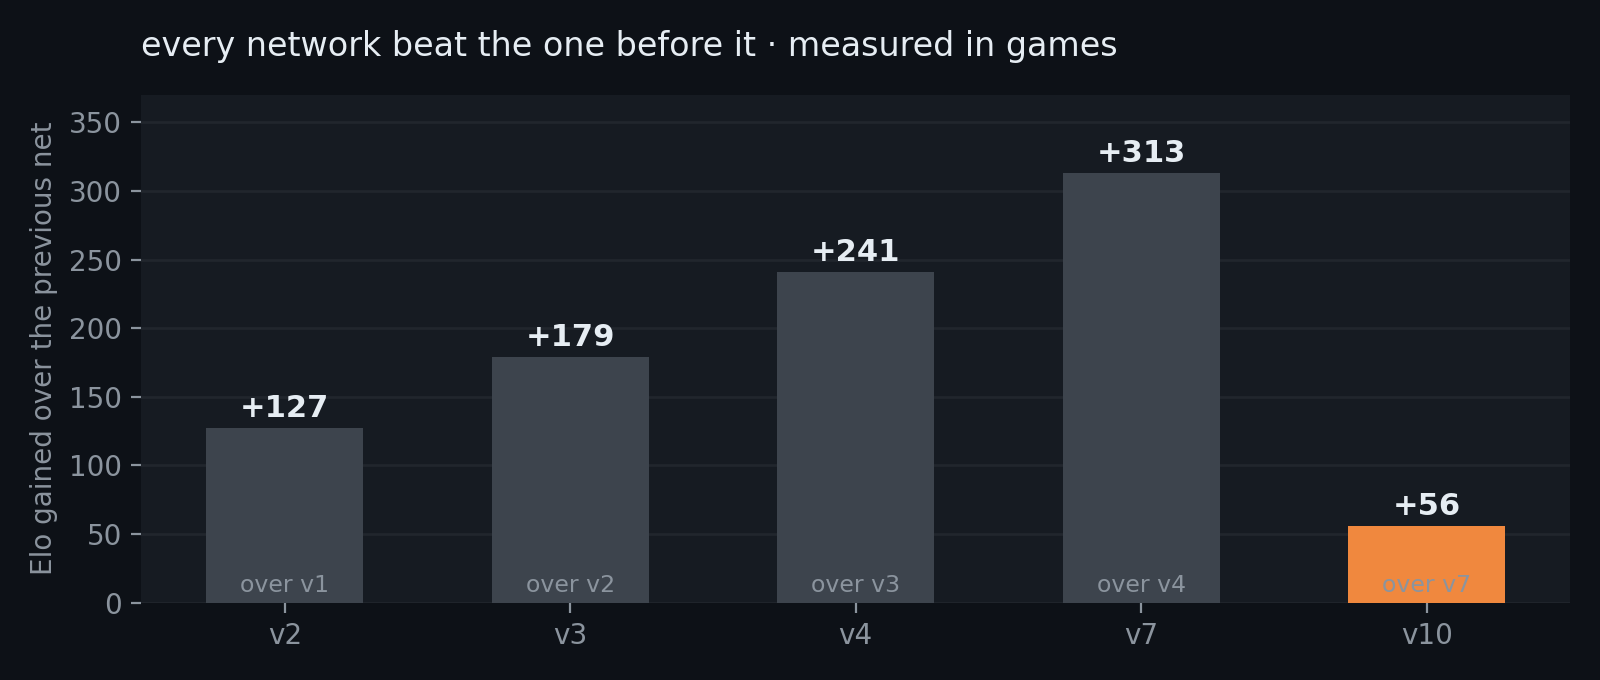
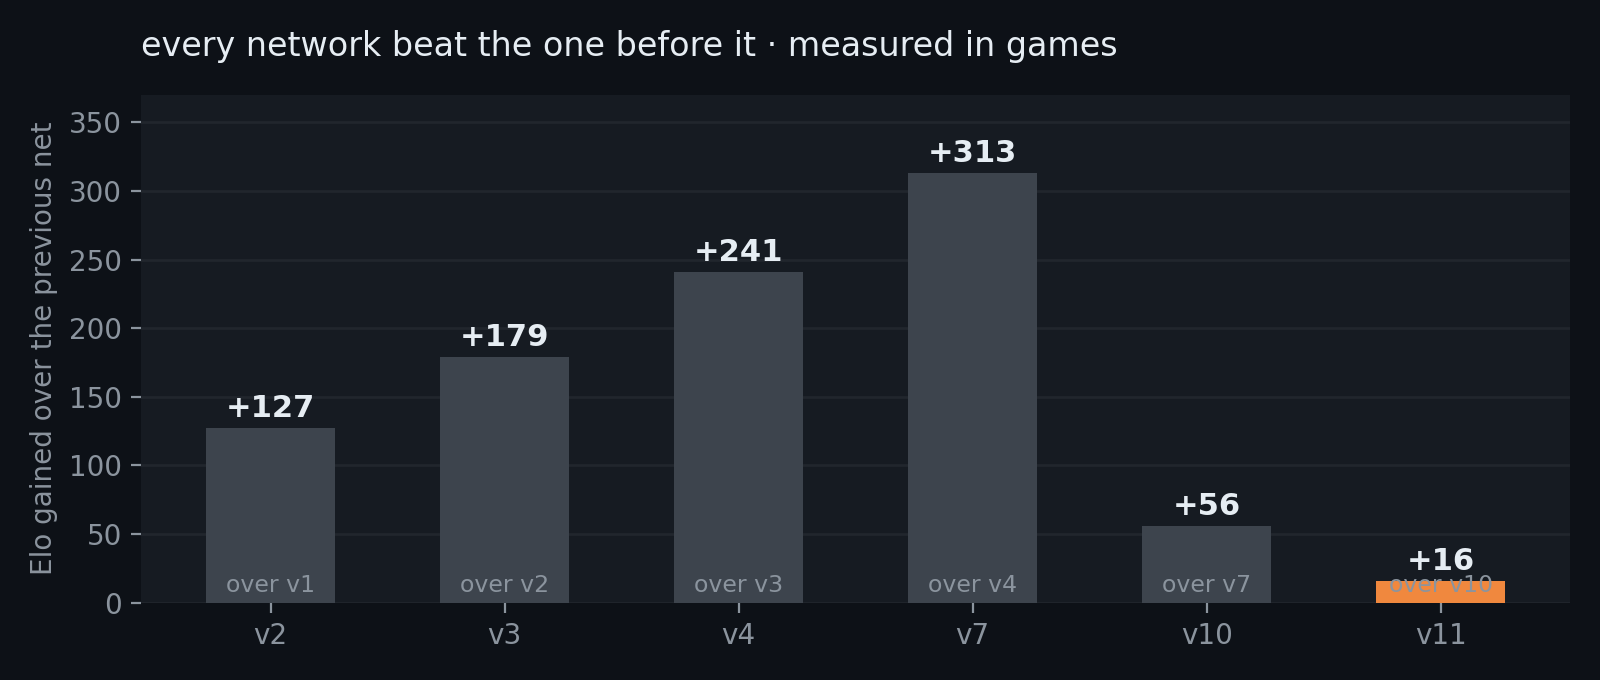
Charts: add v11, add a standing chart, fix stale labels
The progress chart stopped at v10 and the tactics chart still said
"Khatib v10"; both now include v11 (+16 Elo over v10, 440 games). The
bar colouring was hardcoded for exactly five bars and would have left
v11 mis-coloured -- derived from the label count now.

Adds a standing chart, because a version-over-version chart only ever
shows the engine beating itself. This one places it against opponents it
actually played: about 500 Elo below Weiawaga 6.0.0 (0W 36L 4D over 40
games) and about 800 above the club player it went 12W 3D 0L against.
The human is labelled by strength rather than by their Lichess handle.

Claude-Session: https://claude.ai/code/session_01TL4qPH3YnnWx7kaMG3oLDo

diff --git a/docs/index.html b/docs/index.html
@@ -165,7 +165,7 @@
     Thirty hard positions, one second each, all three engines on the same
     machine.
   </p>
-  <img class="chart" src="img/benchmark.png?v=30c80d95"
+  <img class="chart" src="img/benchmark.png?v=391f5de0"
        alt="Stockfish 14 of 30, Khatib 12 of 30, Leela 10 of 30">
   <table>
     <tr><th>Engine</th><th class="n">Solved</th></tr>
@@ -186,7 +186,7 @@
     <b>v11</b> is currently ahead of it by <b>+15 &plusmn; 14 Elo</b> at 320
     games, which is the first read whose interval clears zero.
   </p>
-  <img class="chart" src="img/progress.png?v=cb665582"
+  <img class="chart" src="img/progress.png?v=2b893c81"
        alt="Elo gained by each network version, rising from 60 to 313">
   <p class="note">
     Four attempts to beat v7 failed first, at &minus;266 to &minus;308 Elo
@@ -210,6 +210,8 @@
     singular extensions and a fully tuned parameter set; Khatib has neither
     yet. Both are on the list.
   </p>
+  <img class="chart" src="img/standing.png?v=e0d3753e"
+       alt="Khatib at 2286, about 500 Elo below Weiawaga and 800 above a club player">
   <p class="note">
     Search speed on an M4 Mac mini, one thread: <b>1.63M nodes/second</b>,
     depth 17 from the start position in 7.6 seconds.

diff --git a/scripts/make_charts.py b/scripts/make_charts.py
@@ -22,7 +22,7 @@ def _style(ax, fig):
 
 
 def tactics(path="docs/img/benchmark.png"):
-    names = ["Stockfish 17", "Khatib v10", "Leela (lc0)"]
+    names = ["Stockfish 17", "Khatib v11", "Leela (lc0)"]
     vals = [50.0, 43.3, 36.7]
     raw = ["15/30", "13/30", "11/30"]
     colors = [DIM, ACCENT, DIM]
@@ -52,15 +52,16 @@ def progress(path="docs/img/progress.png"):
     Bars, not a line: these are independent steps, and a line makes a smaller
     step look like a regression when every bar is in fact a win.
     """
-    labels = ["v2", "v3", "v4", "v7", "v10"]
-    elo = [127, 179, 241, 313, 56]
-    note = ["over v1", "over v2", "over v3", "over v4", "over v7"]
+    labels = ["v2", "v3", "v4", "v7", "v10", "v11"]
+    elo = [127, 179, 241, 313, 56, 16]
+    note = ["over v1", "over v2", "over v3", "over v4", "over v7", "over v10"]
 
     fig, ax = plt.subplots(figsize=(8, 3.4), dpi=200)
     _style(ax, fig)
     ax.grid(axis="x", color=BG, linewidth=0)
     ax.grid(axis="y", color=GRID, linewidth=1)
-    bars = ax.bar(labels, elo, color=[DIM] * 4 + [ACCENT], width=0.55, zorder=3)
+    bars = ax.bar(labels, elo, color=[DIM] * (len(labels) - 1) + [ACCENT],
+                  width=0.55, zorder=3)
     for b, v, n in zip(bars, elo, note):
         ax.text(b.get_x() + b.get_width() / 2, v + 8, f"+{v}",
                 ha="center", color=INK, fontsize=11, fontweight="bold")
@@ -75,6 +76,41 @@ def progress(path="docs/img/progress.png"):
     print("wrote", path)
 
 
+def standing(path="docs/img/standing.png"):
+    """Where the engine sits against opponents it has actually played.
+
+    The version-over-version chart only ever shows Khatib beating itself,
+    which flatters it. This one includes the engine that beats us.
+    """
+    names = ["Weiawaga 6.0.0", "Khatib v11", "club player"]
+    # Khatib anchored at its measured Lichess blitz rating; the others placed
+    # by the margins actually measured against it.
+    vals = [2286 + 511, 2286, 1500]
+    labels = ["+511 Elo\n0W 36L 4D / 40",
+              "2286 blitz \u00b7 236 games",
+              "\u2212786 Elo\n12W 3D 0L"]
+    colors = [DIM, ACCENT, DIM]
+
+    fig, ax = plt.subplots(figsize=(8, 3.4), dpi=200)
+    _style(ax, fig)
+    y = range(len(names))
+    ax.barh(y, vals, color=colors, height=0.55, zorder=3)
+    ax.set_yticks(list(y))
+    ax.set_yticklabels(names, color=INK, fontsize=11)
+    ax.invert_yaxis()
+    ax.set_xlim(0, 3900)
+    ax.set_xlabel("approximate Elo", color=SUB, fontsize=10)
+    for i, (v, t) in enumerate(zip(vals, labels)):
+        ax.text(v + 60, i, t, va="center",
+                color=INK if i == 1 else SUB, fontsize=9)
+    ax.set_title("measured against opponents it has played",
+                 color=INK, fontsize=12, pad=14, loc="left")
+    fig.tight_layout()
+    fig.savefig(path, facecolor=BG)
+    print("wrote", path)
+
+
 if __name__ == "__main__":
     tactics()
     progress()
+    standing()
